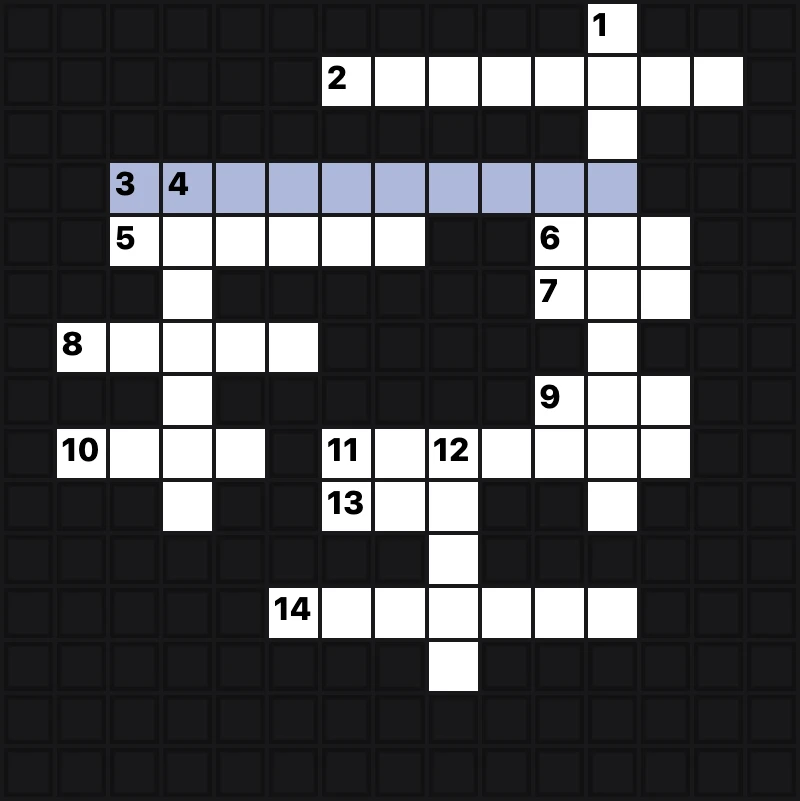
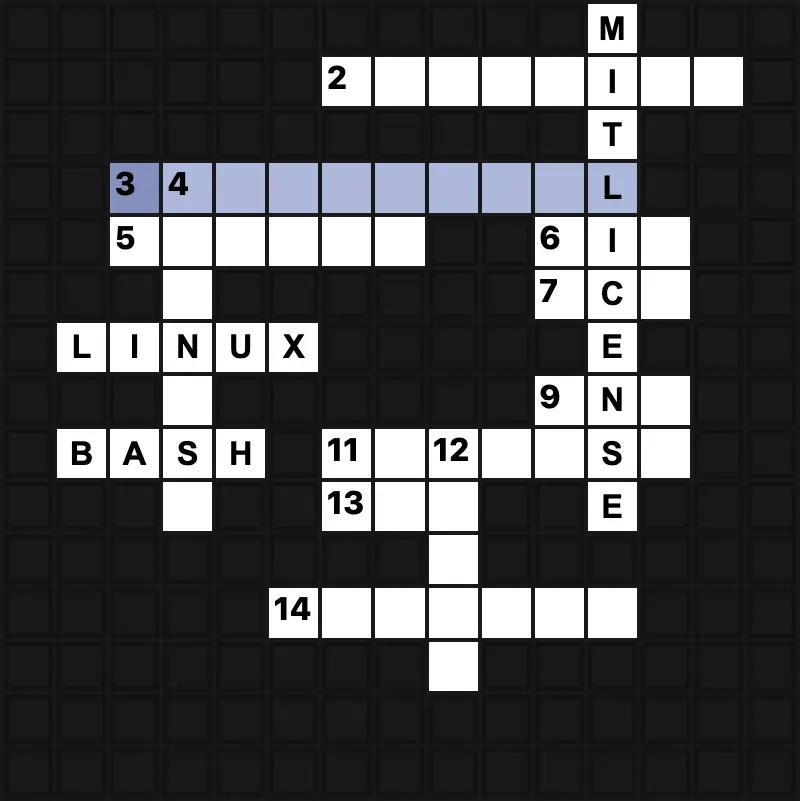
Update landing page and archive list metadata colors

diff --git a/crossword/static/crossword/css/index.css b/crossword/static/crossword/css/index.css
@@ -1,33 +1,23 @@
-.hero {
-  text-align: left;
-}
-
-.hero p {
-  margin: 0;
-  padding: 0;
-}
-
-.hero h1 {
+.headline {
   font-size: clamp(1.9rem, 3.1vw, 2.3rem);
   font-weight: 600;
-  line-height: 1;
   margin-bottom: 0.5rem;
   white-space: nowrap;
 }
 
-.title-line {
+.headline-wordmark {
   display: inline-flex;
   align-items: center;
 }
 
-.title-line .logo {
+.headline-wordmark .logo {
   width: 32px;
 }
 
-.hero p.subheadline {
+.subheadline {
   font-size: clamp(1.1rem, 1.4vw, 1.2rem);
   color: #52525b;
-  margin-bottom: 1rem;
+  margin: 0 0 1rem 0;
   white-space: nowrap;
 }
 
@@ -37,75 +27,35 @@
   text-underline-offset: 2px;
 }
 
-.hero-meta {
-  display: flex;
-  flex-direction: column;
-  gap: var(--space-xs);
-  font-size: 1.05rem;
-}
-
-.hero-meta #release-cadence {
-  color: #3f3f46;
-  font-weight: 500;
-}
-
-#release-cadence span {
-  white-space: nowrap;
-}
-
-.cta {
-  display: inline-block;
-  margin: 0.4rem 0 0.2rem 0;
-
-  padding: 0.55rem 1rem;
-  border-radius: 8px;
-
-  background: #18181b;
-  color: white;
-  text-decoration: none;
-  font-weight: 600;
-  white-space: nowrap;
-
-  transition:
-    background 120ms ease,
-    transform 120ms ease;
-}
-
-.cta:hover {
-  transform: scale(1.03);
-}
-
-.cta:focus-visible {
-  outline: 2px solid #6a6d8f;
-}
-
-/* Link wraps screenshot. Reason link has clamp and screenshot has 100% width*/
-.hero-link {
+.hero-figure {
+  margin: 0;
   max-width: 100%;
-  display: block;
   width: 400px;
-}
-
-.hero-link:hover .hero-screenshot {
-  transform: scale(1.03);
-}
-
-.hero-link:focus-visible {
-  outline: none;
-}
-
-.hero-link:focus-visible .hero-screenshot {
-  outline: 2px solid #6a6d8f;
 }
 
 .hero-screenshot {
   display: block;
   width: 100%;
   height: auto;
+
   border: 1px solid #d1d5db;
   border-radius: 20px;
   box-shadow: 0 10px 24px rgba(0, 0, 0, 0.12);
-  transition: transform 0.15s ease;
+}
+
+.hero-caption {
+  margin-top: 0.5rem;
+  color: #6b7280;
+  text-align: center;
+}
+
+.release-cadence {
+  font-size: 1.05rem;
+  margin: 1.5rem 0 1rem 0;
+}
+
+.release-cadence span {
+  white-space: nowrap;
 }
 
 .design-note {

diff --git a/crossword/templates/crossword/index.html b/crossword/templates/crossword/index.html
@@ -35,11 +35,11 @@
 {% block header %}
 {% endblock %}
 {% block content %}
-    <section class="hero">
-        <h1>
+    <section>
+        <h1 class="headline">
             Computer Science
             <br>
-            <span class="title-line">
+            <span class="headline-wordmark">
                 Crosswords
                 <img src="{% static 'crossword/img/favicon-48.png' %}" class="logo" alt="">
             </span>
@@ -47,27 +47,20 @@
         <p class="subheadline">
             Puzzles for people who enjoy
             <br>
-            computer science <a href="{% url 'about' %}#why-computer-science-crosswords" class="subheadline-link">as a subject</a>
+            computer science <a href="{% url 'about' %}#why-computer-science-crosswords"
+    class="subheadline-link">as a subject</a>
         </p>
-        <div class="hero-meta">
-            <p id="release-cadence">New puzzles <span>Tuesday 12:00 UTC</span></p>
-        </div>
-        {% if latest_puzzle %}
-            <a href="{% url 'puzzle' latest_puzzle.puzzle_number %}"
-               class="cta"
-               aria-label="Solve latest puzzle">Solve latest puzzle &rarr;</a>
-            <a href="{% url 'puzzle' latest_puzzle.puzzle_number %}"
-               aria-label="Solve latest puzzle"
-               class="hero-link">
-                <img src="{% static 'crossword/img/board.webp' %}"
-                     alt="Solve latest puzzle"
-                     class="hero-screenshot"
-                     width="800"
-                     height="801"
-                     fetchpriority="high">
-            </a>
-        {% endif %}
+        <figure class="hero-figure">
+            <img src="{% static 'crossword/img/board.webp' %}"
+                 alt=""
+                 class="hero-screenshot"
+                 width="800"
+                 height="801"
+                 fetchpriority="high">
+            <figcaption class="hero-caption">Puzzle 1: Open Source Basics</figcaption>
+        </figure>
     </section>
+    <p class="release-cadence">New puzzles <span>Tuesday 12:00 UTC</span></p>
     {% include "crossword/includes/_puzzle_list.html" %}
     <p class="design-note">
         <a class="design-note-link" href="{% url 'design' %}">Design Notes &rarr;</a>

diff --git a/crossword/static/crossword/css/includes/_design_list.css b/crossword/static/crossword/css/includes/_design_list.css
@@ -1,5 +1,5 @@
 .design-list {
-  padding: 1.5rem 0 1rem 0;
+  padding-bottom: 1rem;
   border-bottom: 1px solid #e5e7eb;
   max-width: 50ch;
 }
@@ -33,7 +33,7 @@
 .design-number {
   flex: 0 0 5rem;
   white-space: nowrap;
-  color: #7c8594;
+  color: #6b7280;
 }
 
 .design-title {
@@ -48,5 +48,5 @@
   flex: 0 0 6rem;
   text-align: right;
   white-space: nowrap;
-  color: #7c8594;
+  color: #6b7280;
 }

diff --git a/crossword/static/crossword/css/includes/_puzzle_list.css b/crossword/static/crossword/css/includes/_puzzle_list.css
@@ -1,5 +1,5 @@
 .puzzle-list {
-  padding: 1.5rem 0 1rem 0;
+  padding-bottom: 1rem;
   border-bottom: 1px solid #e5e7eb;
   max-width: 50ch;
 }
@@ -33,7 +33,7 @@
 .puzzle-number {
   flex: 0 0 5rem;
   white-space: nowrap;
-  color: #7c8594;
+  color: #6b7280;
 }
 
 .puzzle-title {
@@ -48,7 +48,7 @@
   flex: 0 0 6rem;
   text-align: right;
   white-space: nowrap;
-  color: #7c8594;
+  color: #6b7280;
 }
 
 .archive-link {

diff --git a/crossword/static/crossword/css/design.css b/crossword/static/crossword/css/design.css
@@ -9,7 +9,7 @@
 .design-note-date,
 .design-note-author {
   margin: 0;
-  color: #7c8594;
+  color: #6b7280;
 }
 
 .design-note-body {

diff --git a/crossword/static/crossword/css/includes/_pagination.css b/crossword/static/crossword/css/includes/_pagination.css
@@ -8,7 +8,7 @@
 }
 
 .pagination-info {
-  color: #7c8594;
+  color: #6b7280;
 }
 
 .pagination a {

diff --git a/crossword/views/puzzle.py b/crossword/views/puzzle.py
@@ -26,9 +26,6 @@ class PuzzleListView(ListView):
     def get_context_data(self, **kwargs):
         context = super().get_context_data(**kwargs)
         context["is_archive"] = False
-
-        puzzles = context.get("puzzles")  # this is your page object
-        context["latest_puzzle"] = puzzles[0] if puzzles else None
         return context
 
 
@@ -81,6 +78,7 @@ def privacy_view(request):
 
 def about_view(request):
     return render(request, "crossword/about.html")
+
 
 def custom_404(request, exception):
     board = Board.objects.filter(published_at__lte=timezone.now()).order_by(